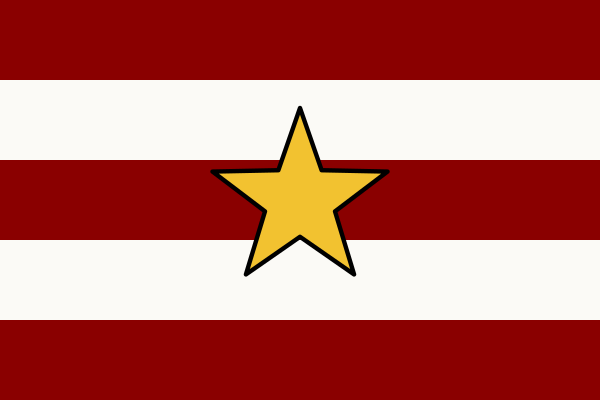
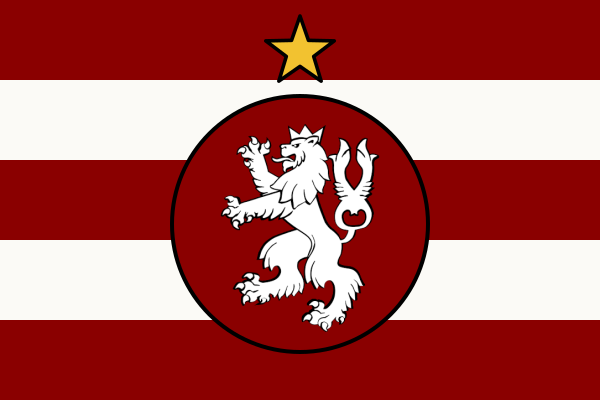
Czechy rewolucyjne: lew w kole na środku, gwiazda nad nim
Claude-Session: https://claude.ai/code/session_01PNyJEgjZDVeUSFrp2WbnmN

Changed region(s): [[0.27, 0.03, 0.72, 0.9]]

diff --git a/gfx_koncepty/flagi_czechy/generuj_flagi.py b/gfx_koncepty/flagi_czechy/generuj_flagi.py
@@ -34,7 +34,7 @@ F={
  '3_teokracja': svg(kwadraty()+lew(75,50,84)+lew(225,150,84)+f'<rect x="150" width="150" height="100" fill="{BLACK}"/><rect y="100" width="150" height="100" fill="{BLACK}"/>'
                     +chalice(225,50,44,WHITE)+chalice(75,150,44,WHITE)),
  # Czechy rewolucyjne: pięć poziomych pasów czerwono-białych, złota gwiazda na środku
- '4_rewolucja': svg(''.join(f'<rect y="{i*40}" width="300" height="40" fill="{'#8a0000' if i%2==0 else WHITE}"/>' for i in range(5))+star(150,100,46,'#f2c230').replace('/>',' stroke="#000000" stroke-width="2.2" stroke-linejoin="round"/>')),
+ '4_rewolucja': svg(''.join(f'<rect y="{i*40}" width="300" height="40" fill="{'#8a0000' if i%2==0 else WHITE}"/>' for i in range(5))+'<circle cx="150" cy="112" r="64" fill="#8a0000" stroke="#000000" stroke-width="2"/>'+lew(150,114,104)+star(150,26,18,'#f2c230').replace('/>',' stroke="#000000" stroke-width="1.8" stroke-linejoin="round"/>')),
 }
 for k,v in F.items():
     p=os.path.join(HERE,k+'.svg'); open(p,'w').write(v)

diff --git a/gfx_koncepty/flagi_czechy/README.md b/gfx_koncepty/flagi_czechy/README.md
@@ -9,4 +9,4 @@ Czechy praskich Przemyślidów: husyckie lenno Moraw, rywal Welehradu w koronie 
 | 1_ksiestwo | Księstwo (start, Przemyślidzi): lwy na czerwieni, orły św. Wacława na bieli |
 | 2_republika | Republika: ta sama szachownica, same lwy (orzeł św. Wacława to znak dynastii) |
 | 3_teokracja | Teokracja husycka: lwy na czerwieni, białe pola zamienione na czarne z białym kielichem |
-| 4_rewolucja | Czechy rewolucyjne: pięć poziomych pasów (ciemna czerwień i biel), złota gwiazda w czarnym konturze |
+| 4_rewolucja | Czechy rewolucyjne: pięć poziomych pasów (ciemna czerwień i biel), na środku ciemnoczerwone koło z lwem, nad nim złota gwiazda w czarnym konturze |
